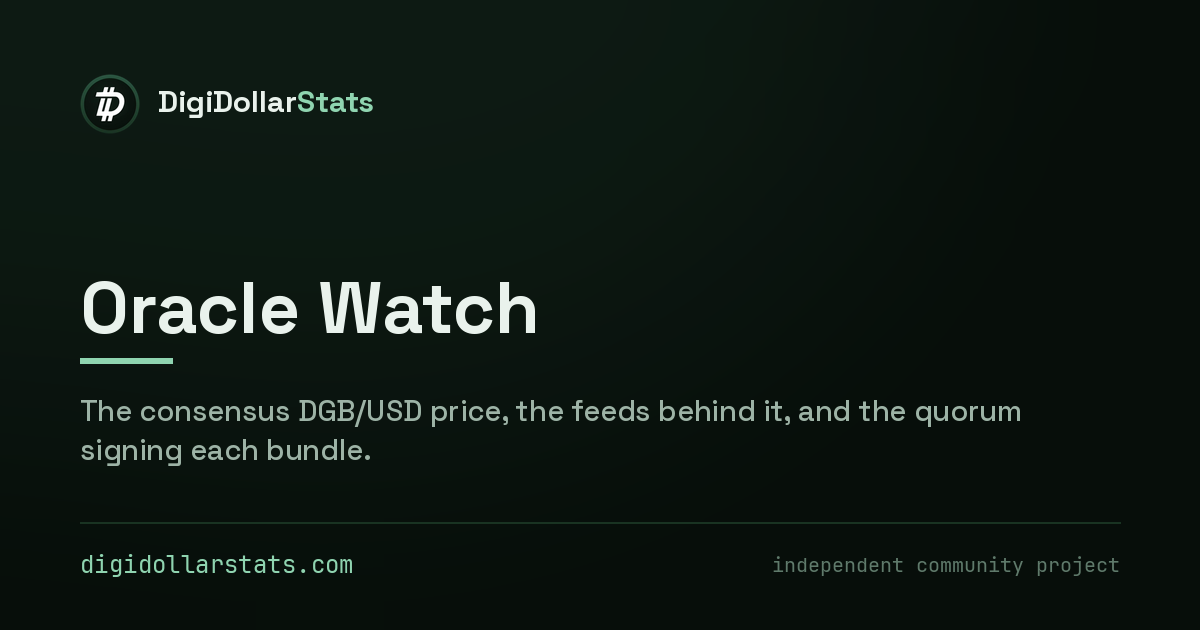
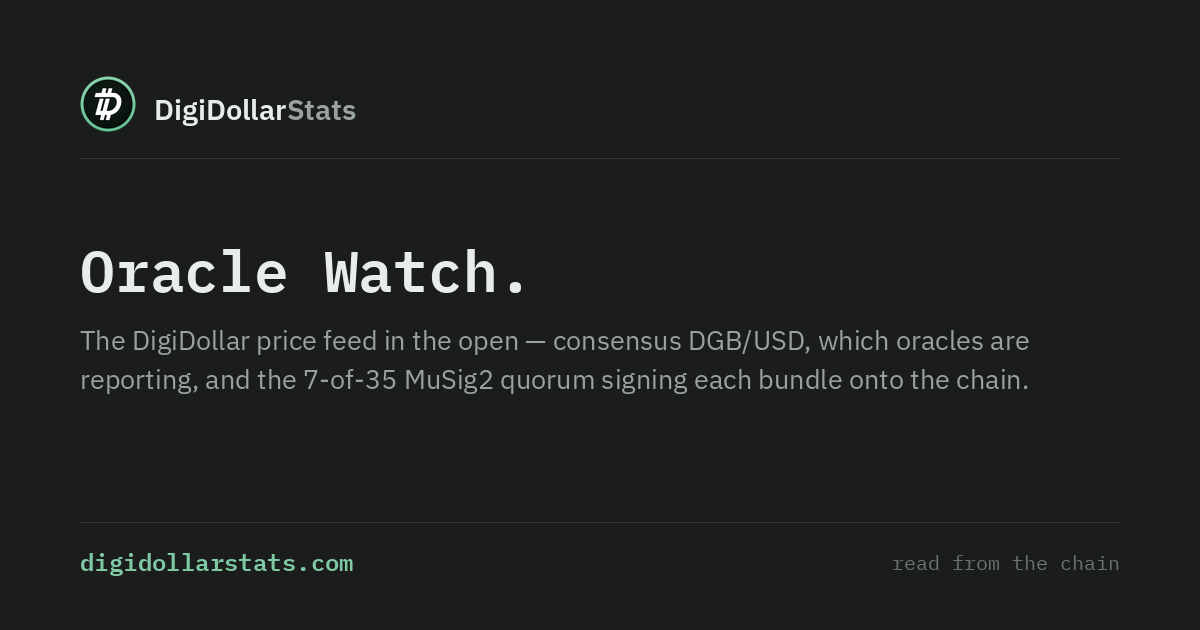
Add files via upload

diff --git a/preview.html b/preview.html
@@ -3,22 +3,22 @@
 <head>
 <meta charset="UTF-8">
 <meta name="viewport" content="width=device-width, initial-scale=1">
-<title>DigiDollar Live Stats — DigiDollarStats</title>
-  <meta name="description" content="Live DigiDollar ($DD) numbers read from a public DigiByte data source: circulating supply, DGB locked as collateral, open positions, system health and oracle price. Refreshed every 60 seconds.">
-  <link rel="canonical" href="https://digidollarstats.com/live">
+<title>DigiDollar Oracle Watch — Live DGB/USD Price — DigiDollarStats</title>
+  <meta name="description" content="Live status of the DigiDollar oracle network: consensus DGB/USD price, reporting oracles, and the 7-of-35 MuSig2 signers of the latest on-chain price bundles.">
+  <link rel="canonical" href="https://digidollarstats.com/oracle">
 
   <meta property="og:type" content="website">
-  <meta property="og:url" content="https://digidollarstats.com/live">
+  <meta property="og:url" content="https://digidollarstats.com/oracle">
   <meta property="og:site_name" content="DigiDollarStats">
-  <meta property="og:title" content="DigiDollar — Live Stats">
-  <meta property="og:description" content="Real on-chain numbers only. Circulating $DD supply, DGB locked as collateral, open positions, system health and oracle price — refreshed every 60 seconds.">
-  <meta property="og:image" content="https://digidollarstats.com/og-live.png">
+  <meta property="og:title" content="DigiDollar Oracle Watch">
+  <meta property="og:description" content="Live status of the DigiDollar oracle network: consensus DGB/USD price, reporting oracles, and the 7-of-35 MuSig2 signers of the latest on-chain price bundles.">
+  <meta property="og:image" content="https://digidollarstats.com/og-oracle.png">
   <meta property="og:image:width" content="1200">
   <meta property="og:image:height" content="630">
   <meta name="twitter:card" content="summary_large_image">
-  <meta name="twitter:title" content="DigiDollar — Live Stats">
-  <meta name="twitter:description" content="Real on-chain numbers only. Supply, DGB locked, open positions, system health and oracle price, refreshed every 60 seconds.">
-  <meta name="twitter:image" content="https://digidollarstats.com/og-live.png">
+  <meta name="twitter:title" content="DigiDollar Oracle Watch">
+  <meta name="twitter:description" content="The DigiDollar price feed in the open: consensus DGB/USD, which oracles are reporting, and the 7-of-35 MuSig2 quorum signing each bundle onto the chain.">
+  <meta name="twitter:image" content="https://digidollarstats.com/og-oracle.png">
 
   <!-- PREVIEW ONLY — keeps this draft out of the index while we look at it. -->
   <meta name="robots" content="noindex, nofollow">
@@ -248,12 +248,37 @@
   .sharebtn svg{width:14px;height:14px}
   .sharebtn.ok{color:var(--signal);border-color:var(--rule2)}
 
-  /* ---------- live page only ---------- */
+  /* ---------- oracle page only ---------- */
   .crumb{font-family:var(--mono);font-size:var(--t-small);color:var(--dim);margin-bottom:14px}
   .crumb a{color:var(--muted);text-decoration:none}
   .crumb a:hover{color:var(--signal)}
-  .statusnote{color:var(--muted);font-size:var(--t-small);line-height:1.6}
-  .statusnote b{color:var(--text);font-weight:600;font-family:var(--mono)}
+  .pnote{color:var(--muted);font-size:var(--t-small);line-height:1.6;margin-bottom:14px}
+  .pnote b{color:var(--text);font-weight:600;font-family:var(--mono)}
+
+  .rostersum{font-family:var(--mono);font-size:var(--t-small);color:var(--signal);
+    margin-bottom:10px;font-variant-numeric:tabular-nums}
+  .rostersum span{color:var(--dim)}
+
+  .orow{display:flex;align-items:center;gap:10px;padding:9px 0;
+    border-bottom:1px solid var(--rule);font-size:var(--t-small)}
+  .orow:last-child{border-bottom:none}
+  .oid{font-family:var(--mono);font-size:var(--t-micro);color:var(--dim);width:26px;flex-shrink:0}
+  .oname{flex:1;min-width:0;white-space:nowrap;overflow:hidden;text-overflow:ellipsis}
+  .opill{font-family:var(--mono);font-size:var(--t-micro);font-weight:600;letter-spacing:.06em;
+    text-transform:uppercase;padding:2px 7px;border:1px solid;flex-shrink:0;line-height:1.5}
+  .p-onchain{color:var(--signal);border-color:var(--signal)}
+  .p-reporting{color:var(--muted);border-color:var(--rule2)}
+  .p-nodata{color:var(--amber);border-color:var(--amber)}
+  .oprice{font-family:var(--mono);font-size:var(--t-small);width:84px;text-align:right;
+    flex-shrink:0;color:var(--muted);font-variant-numeric:tabular-nums}
+
+  .bundlehdr{font-family:var(--mono);font-size:var(--t-small);color:var(--muted);
+    margin:14px 0 8px;padding-top:12px;border-top:1px solid var(--rule)}
+  .bundlehdr:first-of-type{border-top:none;padding-top:0;margin-top:0}
+  .bundlehdr b{color:var(--signal);font-weight:600}
+  .sig{display:inline-block;background:var(--well);border:1px solid var(--rule);color:var(--text);
+    font-family:var(--mono);font-size:var(--t-micro);font-weight:600;padding:4px 8px;margin:3px 4px 3px 0}
+  .bundlecap{color:var(--dim);font-size:var(--t-micro);margin-top:12px;font-family:var(--mono)}
 
   /* ---------- footer ---------- */
   footer{border-top:1px solid var(--rule);padding-top:20px;color:var(--muted);font-size:12px;line-height:1.75;text-align:center}
@@ -294,17 +319,17 @@
   "@type": "WebSite",
   "name": "DigiDollarStats",
   "alternateName": ["DigiDollar Stats", "digidollarstats.com"],
-  "url": "https://digidollarstats.com/live"
+  "url": "https://digidollarstats.com/"
 }
 </script>
 <script type="application/ld+json">
 {
   "@context": "https://schema.org",
   "@type": "Dataset",
-  "name": "DigiDollar ($DD) Live Chain Statistics",
-  "description": "Independent real-time statistics for DigiDollar, the decentralized USD stablecoin native to the DigiByte blockchain: circulating supply, DGB locked as collateral, active positions, system health, and oracle price. Read live from the chain.",
-  "url": "https://digidollarstats.com/live",
-  "keywords": ["DigiDollar", "DD", "DigiByte", "DGB", "stablecoin", "supply", "collateral", "oracle"],
+  "name": "DigiDollar Oracle Network Status",
+  "description": "Live status of the DigiDollar oracle network: consensus DGB/USD price, reporting oracles, and the 7-of-35 MuSig2 signers of the latest on-chain price bundles.",
+  "url": "https://digidollarstats.com/oracle",
+  "keywords": ["DigiDollar", "DigiByte", "DGB", "oracle", "price feed", "MuSig2", "quorum", "DGB/USD"],
   "isAccessibleForFree": true,
   "creator": {
     "@type": "Organization",
@@ -334,30 +359,37 @@
     </span>
   </div>
 
-  <p class="crumb"><a href="/">home</a> · live stats</p>
+  <p class="crumb"><a href="/">home</a> · oracle watch</p>
 
-  <h1>DigiDollar — Live Stats</h1>
-  <p class="lede">Real on-chain numbers only. This page never shows simulated data.</p>
+  <h1>Oracle Watch</h1>
+  <p class="lede">The DigiDollar price feed is out in the open. A distributed network of up to 35 community oracles reports DGB/USD; a 7-of-35 MuSig2 quorum signs each price bundle onto the chain. All data live from mainnet.</p>
 
   <div class="topgrid">
     <div class="readout">
-      <button class="sharebtn" type="button" aria-label="Share this live stat" title="Share" onclick="shareStat('supply',this)"><svg viewBox="0 0 24 24" fill="none" stroke="currentColor" stroke-width="2" stroke-linecap="round" stroke-linejoin="round"><circle cx="18" cy="5" r="3"/><circle cx="6" cy="12" r="3"/><circle cx="18" cy="19" r="3"/><line x1="8.59" y1="13.51" x2="15.42" y2="17.49"/><line x1="15.41" y1="6.51" x2="8.59" y2="10.49"/></svg></button>
-      <span class="eyebrow">Circulating DD Supply</span>
-      <div class="supply" id="supply">—</div>
-      <div class="updated" id="updated">connecting to live data…</div>
+      <span class="eyebrow">Consensus DGB / USD price</span>
+      <div class="supply" id="price">—</div>
+      <div class="updated" id="priceMeta">connecting to live data…</div>
     </div>
 
     <div class="figs">
-      <div class="fig sharing"><button class="sharebtn" type="button" aria-label="Share the DGB locked figure" title="Share" onclick="shareStat('locked',this)"><svg viewBox="0 0 24 24" fill="none" stroke="currentColor" stroke-width="2" stroke-linecap="round" stroke-linejoin="round"><circle cx="18" cy="5" r="3"/><circle cx="6" cy="12" r="3"/><circle cx="18" cy="19" r="3"/><line x1="8.59" y1="13.51" x2="15.42" y2="17.49"/><line x1="15.41" y1="6.51" x2="8.59" y2="10.49"/></svg></button><span class="eyebrow"><img class="coin" src="/dgb-coin.png" alt="" width="64" height="64">DGB locked as collateral</span><span class="figv" id="locked">—</span></div>
-      <div class="fig"><span class="eyebrow">Open positions</span><span class="figv" id="positions">—</span></div>
-      <div class="fig"><span class="eyebrow">System health</span><span class="figv" id="health">—</span></div>
-      <a class="fig" href="/oracle" aria-label="Oracle DGB price — open Oracle Watch"><span class="go">→</span><span class="eyebrow">Oracle DGB price</span><span class="figv" id="oracle">—</span></a>
+      <div class="fig"><span class="eyebrow">Reporting oracles</span><span class="figv" id="reporting">—</span></div>
+      <div class="fig"><span class="eyebrow">On-chain this bundle</span><span class="figv" id="onchain">—</span></div>
+      <div class="fig"><span class="eyebrow">Quorum required</span><span class="figv" id="required">—</span></div>
+      <div class="fig"><span class="eyebrow">Roster slots</span><span class="figv" id="slots">—</span></div>
     </div>
   </div>
 
   <div class="panel">
-    <h2 class="eyebrow">Status</h2>
-    <p class="statusnote" id="statusNote">Connecting to the configured data source…</p>
+    <h2 class="eyebrow">Oracle roster</h2>
+    <p class="pnote">Every configured oracle slot and its current state. <b>On-chain</b> = its price is in the latest signed bundle · <b>Reporting</b> = live but not in the last bundle · <b>No data</b> = silent.</p>
+    <div class="rostersum" id="rosterSum"></div>
+    <div id="roster"></div>
+  </div>
+
+  <div class="panel">
+    <h2 class="eyebrow">Recent signed bundles</h2>
+    <p class="pnote">Each price bundle committed to the chain, with the quorum of oracles whose MuSig2 signatures signed it.</p>
+    <div id="bundles"></div>
   </div>
 
   <footer>
@@ -383,86 +415,86 @@
 
 
 <script>
-/* ================================================================
-   DATA SOURCE CONFIG — edit this block to add or change sources.
-   Add one or more sources. Each source needs:
-     name : label shown on the page
-     url  : a public JSON endpoint
-     map  : function turning that JSON into the fields below
-   Sources are tried in order; first one that works wins.
-   ================================================================ */
-const DATA_SOURCES = [
-  {
-    name: "digibyte.io",
-    url : "https://digibyte.io/api/getdigidollarstats",
-    map : r => ({
-      supply:    r.total_dd_supply / 100,        // endpoint returns cents
-      locked:    r.total_collateral_dgb,         // DGB
-      positions: r.active_positions,
-      health:    r.health_percentage,            // %
-      healthTxt: r.health_status,
-      oracleUsd: r.oracle_price_micro_usd / 1e6  // DGB price in USD
-    })
-  },
-];
+const PRICES_API  = 'https://digibyte.io/api/getalloracleprices';
+const SIGNERS_API = 'https://digibyte.io/api/getoraclesigners?blocks=300';
+const MAX_BUNDLES = 5;
 const REFRESH_SECONDS = 60;
-/* ============================================================== */
-
 const $ = id => document.getElementById(id);
-const fmtNum = n => n == null ? "\u2014" : Number(n).toLocaleString("en-US");
 
+const usd6 = n => '$' + Number(n).toFixed(6);
+function ago(ts){
+  if (!ts) return '';
+  const s = Math.max(0, Math.floor(Date.now()/1000 - ts));
+  if (s < 60) return s + 's ago';
+  if (s < 3600) return Math.floor(s/60) + 'm ago';
+  return Math.floor(s/3600) + 'h ago';
+}
+function pill(status, source){
+  if (source === 'on-chain') return '<span class="opill p-onchain">on-chain</span>';
+  if (status === 'no_data')  return '<span class="opill p-nodata">no data</span>';
+  return '<span class="opill p-reporting">reporting</span>';
+}
 function setBadge(cls, txt){
-  const b = $("liveBadge");
-  b.className = "status eyebrow" + (cls ? " " + cls : "");
-  $("liveTxt").textContent = txt;
+  $('liveBadge').className = 'status eyebrow' + (cls ? ' ' + cls : '');
+  $('liveTxt').textContent = txt;
 }
 
-function render(d, srcName){
-  $("supply").textContent = d.supply == null ? "\u2014" :
-    "$" + Number(d.supply).toLocaleString("en-US",{minimumFractionDigits:2,maximumFractionDigits:2});
-  $("locked").textContent    = d.locked == null ? "\u2014" : fmtNum(Math.round(d.locked)) + " DGB";
-  $("positions").textContent = fmtNum(d.positions);
-  $("health").textContent    = d.health == null ? "\u2014" :
-    d.health + "%" + (d.healthTxt ? " \u00b7 " + d.healthTxt : "");
-  $("oracle").textContent    = d.oracleUsd == null ? "\u2014" : "$" + d.oracleUsd.toFixed(6);
-  setBadge("", "Live \u00b7 " + srcName);
-  $("updated").textContent = "updated " + new Date().toLocaleTimeString() +
-    " \u00b7 refreshes every " + REFRESH_SECONDS + "s";
-  $("statusNote").innerHTML =
-    "<b>Live data</b> from " + srcName + ", refreshed every " + REFRESH_SECONDS + "s. " +
-    "Numbers are read directly from a public DigiByte data source.";
-}
+async function refresh(){
+  try{
+    const [pr, sg] = await Promise.all([
+      fetch(PRICES_API, {cache:'no-store'}).then(r=>{if(!r.ok)throw 0;return r.json();}),
+      fetch(SIGNERS_API,{cache:'no-store'}).then(r=>{if(!r.ok)throw 0;return r.json();}).catch(()=>null)
+    ]);
 
-function showWaiting(){
-  if (DATA_SOURCES.length === 0){
-    setBadge("err", "No source");
-    $("statusNote").innerHTML =
-      "<b>Status:</b> no public data source is configured for this page yet. " +
-      "No cached or simulated numbers are shown.";
-  } else {
-    setBadge("err", "Unreachable");
-    $("statusNote").innerHTML =
-      "<b>Status:</b> configured data source" + (DATA_SOURCES.length > 1 ? "s are" : " is") +
-      " currently unreachable. Retrying every " + REFRESH_SECONDS + "s. " +
-      "No cached or simulated numbers are shown.";
+    $('price').textContent = usd6(pr.consensus_price_usd || (pr.consensus_price_micro_usd||0)/1e6);
+    $('priceMeta').textContent = 'bundle #' + (pr.last_bundle_height||'\u2014') +
+      ' \u00b7 ' + ago(pr.last_bundle_time) + ' \u00b7 updated ' + new Date().toLocaleTimeString();
+
+    const oracles = pr.oracles || [];
+    const reporting = oracles.filter(o=>o.status==='reporting').length;
+    const onchain   = oracles.filter(o=>o.price_source==='on-chain').length;
+    $('reporting').textContent = reporting + ' / ' + (pr.total_oracles||oracles.length);
+    $('onchain').textContent   = onchain;
+    $('required').textContent  = (pr.required||'\u2014') + ' of ' + (pr.total_oracles||'\u2014');
+    $('slots').textContent     = (pr.total_oracles||oracles.length);
+    const nodata = oracles.filter(o=>o.status==='no_data').length;
+    const slots  = pr.total_oracles || oracles.length;
+    $('rosterSum').innerHTML = reporting + ' reporting <span>\u00b7</span> ' +
+      nodata + ' no data <span>\u00b7</span> ' + slots + ' slots';
+
+    $('roster').innerHTML = oracles.map(o =>
+      '<div class="orow">' +
+        '<span class="oid">'+o.oracle_id+'</span>' +
+        '<span class="oname">'+(o.name||('Oracle '+o.oracle_id))+'</span>' +
+        pill(o.status, o.price_source) +
+        '<span class="oprice">'+(o.price_usd?usd6(o.price_usd):'\u2014')+'</span>' +
+      '</div>').join('');
+
+    if (sg && sg.bundles && sg.bundles.length){
+      const shown = sg.bundles.slice(0, MAX_BUNDLES);
+      const total = sg.bundles.length;
+      const rows = shown.map(b => {
+        const signers = (b.signers||[]).map(x=>'<span class="sig">'+(x.name||('#'+x.oracle_id))+'</span>').join('');
+        return '<div class="bundlehdr">block <b>#'+b.height+'</b> \u00b7 '+usd6(b.price_usd)+
+               ' \u00b7 '+(b.signer_count||0)+' signers \u00b7 '+ago(b.timestamp)+'</div>'+
+               '<div>'+signers+'</div>';
+      }).join('');
+      const cap = total > MAX_BUNDLES
+        ? 'Showing the latest ' + MAX_BUNDLES + ' of ' + total + ' bundles from the last 300 blocks.'
+        : total + ' bundle' + (total===1?'':'s') + ' published in the last 300 blocks.';
+      $('bundles').innerHTML = rows + '<div class="bundlecap">' + cap + '</div>';
+    } else {
+      $('bundles').innerHTML = '<div class="bundlecap">No price bundles in the last 300 blocks \u2014 the on-chain price simply hasn\'t changed enough to trigger a new one.</div>';
+    }
+
+    setBadge('', 'Live');
+  }catch(e){
+    setBadge('err', 'Source down');
+    $('priceMeta').textContent = 'no live data';
   }
-  $("updated").textContent = "no live data";
 }
-
-async function tick(){
-  for (const src of DATA_SOURCES){
-    try{
-      const res = await fetch(src.url, {cache:"no-store"});
-      if (!res.ok) continue;
-      const data = src.map(await res.json());
-      if (data && data.supply != null){ render(data, src.name); return; }
-    }catch(e){ /* try next source */ }
-  }
-  showWaiting();
-}
-
-tick();
-setInterval(tick, REFRESH_SECONDS*1000);
+refresh();
+setInterval(refresh, REFRESH_SECONDS*1000);
 
 (function(){
     var root = document.documentElement;
@@ -501,41 +533,6 @@ setInterval(tick, REFRESH_SECONDS*1000);
       fel.addEventListener("keydown", function(e){ if(e.key==="Enter"||e.key===" "){ e.preventDefault(); fcopy(); } });
     }
   })();
-</script>
-<script>
-function shareStat(kind, btn){
-  var el = document.getElementById(kind === 'locked' ? 'locked' : 'supply');
-  var v = '';
-  if (el) el.childNodes.forEach(function(n){ if (n.nodeType === 3) v += n.textContent; });
-  v = v.trim();
-  var has = v && v !== '\u2014';
-  var text;
-  if (kind === 'locked'){
-    text = has
-      ? 'Right now, ' + v + " is locked as DigiDollar collateral \u2014 and every coin stays in its owner's wallet. Live from the chain:"
-      : "DGB locked as DigiDollar collateral \u2014 every coin stays in its owner's wallet. Live from the chain:";
-  } else {
-    var num = (v.charAt(0) === '$') ? v.slice(1) : v;
-    text = has
-      ? 'There are ' + num + ' $DD in circulation right now, each one backed by locked DGB. Real, verifiable, updated live:'
-      : 'Live DigiDollar ($DD) circulating supply, each unit backed by locked DGB. Real, verifiable, updated live:';
-  }
-  var url = 'https://digidollarstats.com/';
-  if (matchMedia('(pointer: coarse)').matches && navigator.share){
-    navigator.share({text: text, url: url}).catch(function(){});
-    return;
-  }
-  var w = window.open('https://x.com/intent/post?text=' + encodeURIComponent(text) + '&url=' + encodeURIComponent(url), '_blank', 'noopener');
-  if (!w && navigator.clipboard && navigator.clipboard.writeText){
-    navigator.clipboard.writeText(text + ' ' + url).then(function(){ shareOk(btn); }).catch(function(){});
-  }
-}
-function shareOk(btn){
-  var old = btn.innerHTML;
-  btn.classList.add('ok');
-  btn.innerHTML = '<svg viewBox="0 0 24 24" fill="none" stroke="currentColor" stroke-width="2.4" stroke-linecap="round" stroke-linejoin="round"><path d="M20 6 9 17l-5-5"/></svg>';
-  setTimeout(function(){ btn.classList.remove('ok'); btn.innerHTML = old; }, 1400);
-}
 </script>
 </body>
 </html>
